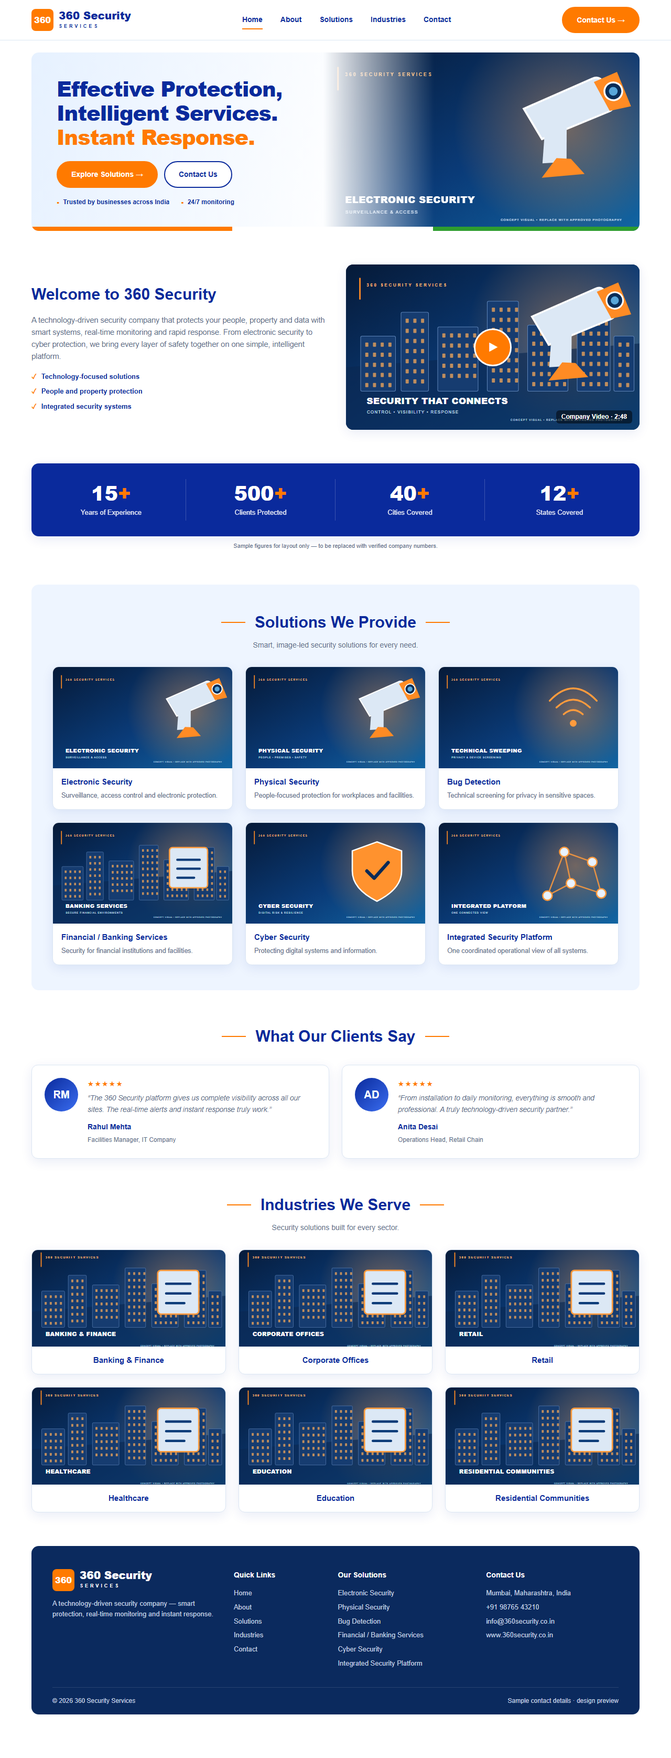
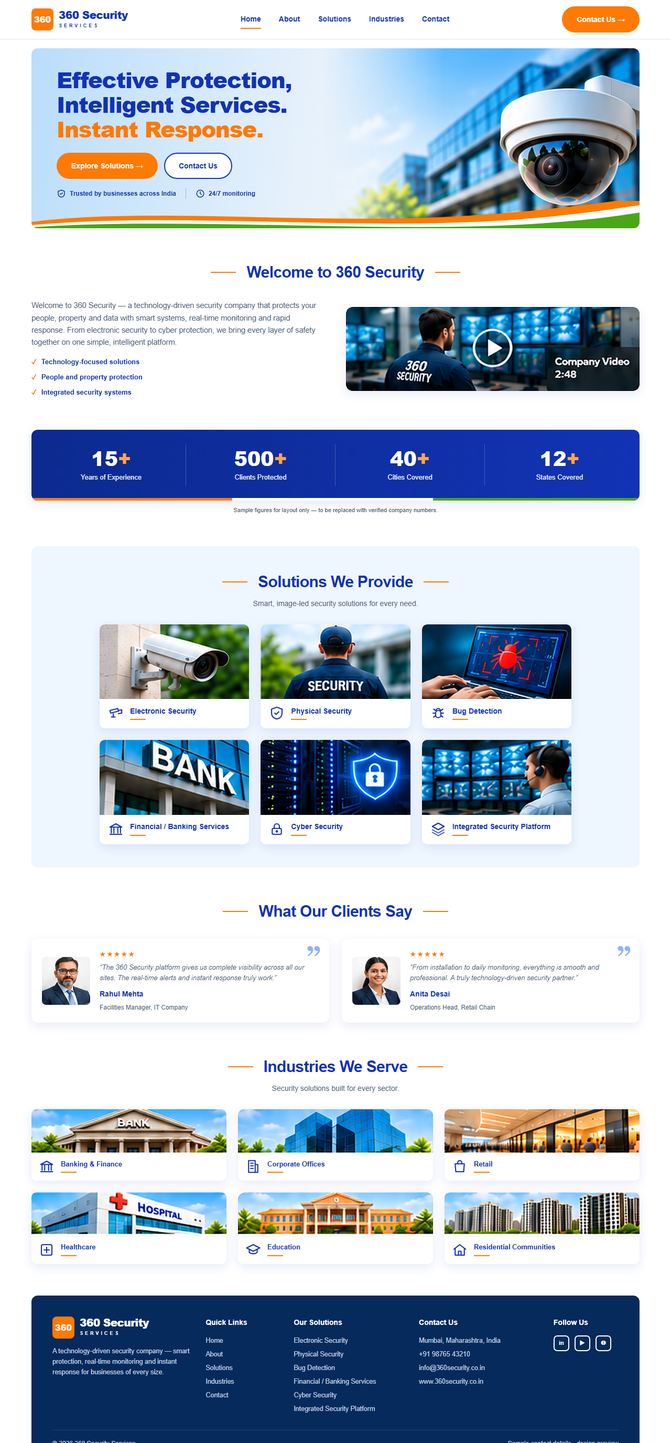
Match screenshot theme: real photos, tricolour hero, themed cards and footer

diff --git a/design.css b/design.css
@@ -1,8 +1,8 @@
 @import url('https://fonts.googleapis.com/css2?family=Poppins:wght@400;500;600;700;800&display=swap');
-:root{--blue:#0a2a9c;--navy:#0b2a5e;--orange:#ff7a00;--green:#2e9d2f;--light:#eef5ff;--ink:#1c2d4a;--muted:#5d6f8a;--line:#dbe6f3;--w:1160px;--gap:64px;--r:14px;--shadow:0 6px 22px rgba(10,42,156,.09)}
+:root{--blue:#1233b5;--navy:#062a5c;--orange:#ff7a00;--green:#4aa616;--light:#eef6ff;--ink:#1c2d4a;--muted:#4b5d7a;--line:#dbe6f3;--w:1160px;--gap:60px;--r:12px;--shadow:0 6px 20px rgba(18,51,181,.10)}
 *{box-sizing:border-box}
 body{margin:0;font-family:Poppins,Arial,sans-serif;color:var(--ink);background:#fff;line-height:1.6}
-a{color:inherit;text-decoration:none}img{display:block;width:100%}
+a{color:inherit;text-decoration:none}img{display:block;width:100%}svg{display:block}
 h1,h2,h3,p{margin:0}
 .wrap{width:min(var(--w),calc(100% - 48px));margin-inline:auto}
 .btn{display:inline-flex;align-items:center;gap:10px;padding:12px 26px;border-radius:30px;font-weight:600;font-size:14px;border:2px solid var(--orange);background:var(--orange);color:#fff}
@@ -10,78 +10,87 @@ h1,h2,h3,p{margin:0}
 .btn.light{background:transparent;border-color:#fff;color:#fff}
 
 header{position:sticky;top:0;z-index:20;background:#fff;box-shadow:0 1px 0 var(--line)}
-.hrow{display:flex;align-items:center;justify-content:space-between;height:76px}
+.hrow{display:flex;align-items:center;justify-content:space-between;height:74px}
 .brand{display:flex;align-items:center;gap:10px}
 .mark{width:42px;height:42px;border-radius:8px;background:var(--orange);color:#fff;font-weight:800;display:grid;place-items:center}
-.bn{font-weight:800;color:var(--blue);font-size:20px;line-height:1;display:block}.bs{display:block;font-size:9px;letter-spacing:4px;color:var(--blue);font-weight:700;margin-top:4px}
+.bn{font-weight:800;color:var(--blue);font-size:20px;line-height:1;display:block;letter-spacing:-.5px}.bs{display:block;font-size:9px;letter-spacing:4px;color:var(--blue);font-weight:700;margin-top:4px}
 nav{display:flex;gap:34px}nav a{font-weight:600;font-size:14px;color:var(--blue);padding:6px 0}nav a.on{border-bottom:2px solid var(--orange)}
 
-.hero{margin-top:24px;border-radius:var(--r);overflow:hidden;position:relative;background:linear-gradient(100deg,#e6f1ff 0%,#fff 55%);min-height:340px;display:grid;grid-template-columns:1.05fr 1fr;align-items:center}
-.hero-copy{padding:40px 0 40px 48px;position:relative;z-index:2}
-.hero h1{font-size:clamp(28px,3.4vw,40px);line-height:1.15;font-weight:800;color:var(--blue);letter-spacing:-1px}
+/* hero */
+.hero{margin-top:18px;border-radius:var(--r);overflow:hidden;position:relative;background:linear-gradient(100deg,#b9ddfb 0%,#e6f1fb 45%,#fff 100%);min-height:330px;display:flex;align-items:center}
+.hero-copy{padding:36px 0 56px 48px;position:relative;z-index:3;max-width:56%}
+.hero h1{font-size:clamp(28px,3.6vw,42px);line-height:1.12;font-weight:800;color:var(--blue);letter-spacing:-1.2px}
 .hero h1 em{font-style:normal;color:var(--orange)}
-.acts{display:flex;gap:12px;margin:24px 0 18px;flex-wrap:wrap}
-.trust{display:flex;gap:22px;font-size:12px;font-weight:600;color:var(--blue);flex-wrap:wrap}.trust span:before{content:'●';color:var(--orange);margin-right:7px;font-size:9px}
-.hero-img{position:absolute;right:0;top:0;bottom:0;width:52%}
-.hero-img img{height:100%;object-fit:cover;-webkit-mask-image:linear-gradient(90deg,transparent,#000 35%);mask-image:linear-gradient(90deg,transparent,#000 35%)}
-.swoosh{position:absolute;left:0;right:0;bottom:0;height:8px;background:linear-gradient(90deg,var(--orange) 0 33%,#fff 33% 66%,var(--green) 66%);z-index:3}
+.acts{display:flex;gap:12px;margin:22px 0 18px;flex-wrap:wrap}
+.trust{display:flex;gap:18px;font-size:12px;font-weight:600;color:var(--blue);flex-wrap:wrap;align-items:center}
+.trust span{display:inline-flex;align-items:center;gap:7px}.trust svg{width:18px;height:18px}
+.trust i{width:1px;height:20px;background:#9fb4d8}
+.hero-img{position:absolute;right:0;top:0;bottom:0;width:52%;z-index:1}
+.hero-img img{height:100%;object-fit:cover;-webkit-mask-image:linear-gradient(90deg,transparent,#000 38%);mask-image:linear-gradient(90deg,transparent,#000 38%)}
+.swoosh{position:absolute;left:0;right:0;bottom:-2px;height:54px;z-index:4;pointer-events:none}
+.swoosh svg{width:100%;height:100%}
 
-.hero.video{display:block;min-height:480px;background:#06183a;color:#fff}
-.hero.video .bg{position:absolute;inset:0}.hero.video .bg img{height:100%;object-fit:cover}
-.hero.video:before{content:'';position:absolute;inset:0;z-index:1;background:linear-gradient(90deg,rgba(4,18,48,.92),rgba(4,18,48,.55) 60%,rgba(4,18,48,.25))}
-.hero.video .hero-copy{max-width:640px;padding:80px 0 80px 56px}
-.hero.video h1{color:#fff}.hero.video .trust{color:#fff}
-.vctl{position:absolute;right:36px;bottom:34px;z-index:3;display:flex;align-items:center;gap:14px;background:rgba(255,255,255,.14);backdrop-filter:blur(8px);border:1px solid rgba(255,255,255,.4);border-radius:40px;padding:8px 22px 8px 8px;color:#fff;font-size:13px;font-weight:600}
+.hero.video{min-height:460px;background:#06183a}
+.hero.video .hero-img{inset:0;width:100%}
+.hero.video .hero-img img{-webkit-mask-image:none;mask-image:none}
+.hero.video:before{content:'';position:absolute;inset:0;z-index:2;background:linear-gradient(90deg,rgba(6,24,70,.92),rgba(6,24,70,.6) 55%,rgba(6,24,70,.15))}
+.hero.video .hero-copy{padding:70px 0 90px 56px;max-width:640px}
+.hero.video h1,.hero.video .hero-copy p{color:#fff}.hero.video .trust{color:#fff}.hero.video .trust i{background:#ffffff80}
+.vctl{position:absolute;right:36px;bottom:60px;z-index:5;display:flex;align-items:center;gap:14px;background:rgba(255,255,255,.16);backdrop-filter:blur(8px);border:1px solid rgba(255,255,255,.45);border-radius:40px;padding:8px 22px 8px 8px;color:#fff;font-size:13px;font-weight:600}
 .play{width:46px;height:46px;border-radius:50%;background:var(--orange);color:#fff;display:grid;place-items:center;font-size:14px;padding-left:3px;flex:none}
-.vctl small{display:block;font-weight:400;opacity:.85;font-size:11px}
+.vctl small{display:block;font-weight:400;opacity:.9;font-size:11px}
 
 section{margin-top:var(--gap)}
-.sh{text-align:center;margin-bottom:30px}
-.sh h2{font-size:30px;font-weight:700;color:var(--blue);display:inline-flex;align-items:center;gap:18px}
-.sh h2:before,.sh h2:after{content:'';width:46px;height:2px;background:var(--orange)}
-.sh p{color:var(--muted);font-size:14px;margin-top:8px}
+.sh{text-align:center;margin-bottom:28px}
+.sh h2{font-size:30px;font-weight:700;color:var(--blue);display:inline-flex;align-items:center;gap:20px;letter-spacing:-.6px}
+.sh h2:before,.sh h2:after{content:'';width:48px;height:2px;background:var(--orange)}
+.sh p{color:var(--muted);font-size:14px;margin-top:6px}
 
 .about{display:grid;grid-template-columns:1fr 1fr;gap:40px;align-items:center}
-.about h2{font-size:30px;color:var(--blue);font-weight:700;margin-bottom:14px}
 .about p{color:var(--muted);font-size:14.5px;margin-bottom:12px}
 .ticks{list-style:none;padding:0;margin:16px 0 0;display:grid;gap:8px;font-weight:600;font-size:13px;color:var(--blue)}.ticks li:before{content:'✓';color:var(--orange);margin-right:9px}
-.vid{position:relative;border-radius:var(--r);overflow:hidden;aspect-ratio:16/9;box-shadow:var(--shadow);background:#06183a}
-.vid img{height:100%;object-fit:cover}.vid .play{position:absolute;left:50%;top:50%;transform:translate(-50%,-50%);width:72px;height:72px;font-size:22px;border:3px solid #fff}
-.vid .cap{position:absolute;right:14px;bottom:12px;color:#fff;font-size:12px;font-weight:600;background:rgba(0,0,0,.5);padding:3px 10px;border-radius:6px}
-.about.center{grid-template-columns:1fr;text-align:center;max-width:820px;margin-inline:auto}
+.vid{border-radius:var(--r);overflow:hidden;box-shadow:var(--shadow);aspect-ratio:333/95}
+.vid img{height:100%;object-fit:cover}
+.about.one{grid-template-columns:1fr;text-align:center;max-width:820px;margin-inline:auto}
 
-.stats{display:grid;grid-template-columns:repeat(4,1fr);background:var(--blue);color:#fff;border-radius:var(--r);padding:30px 10px;box-shadow:var(--shadow)}
-.stat{text-align:center;border-right:1px solid rgba(255,255,255,.2);padding:4px 12px}.stat:last-child{border:0}
-.stat b{display:block;font-size:38px;font-weight:800;line-height:1.2}.stat b i{font-style:normal;color:var(--orange)}
-.stat span{font-size:13px;opacity:.9}
+.stats{display:grid;grid-template-columns:repeat(4,1fr);background:linear-gradient(100deg,#0c2a8f,var(--blue));color:#fff;border-radius:var(--r);padding:28px 10px;box-shadow:var(--shadow);position:relative;overflow:hidden}
+.stats:after{content:'';position:absolute;left:0;right:0;bottom:0;height:5px;background:linear-gradient(90deg,var(--orange) 0 33%,#fff 33% 66%,var(--green) 66%)}
+.stat{text-align:center;border-right:1px solid rgba(255,255,255,.22);padding:4px 12px}.stat:last-of-type{border:0}
+.stat b{display:block;font-size:38px;font-weight:800;line-height:1.2}.stat b i{font-style:normal;color:#ffa545}
+.stat span{font-size:13px;opacity:.92}
 .note{text-align:center;font-size:11px;color:var(--muted);margin-top:10px}
 
-.band{background:var(--light);border-radius:var(--r);padding:48px 40px}
-.grid3{display:grid;grid-template-columns:repeat(3,1fr);gap:24px}
-.card{background:#fff;border-radius:12px;overflow:hidden;box-shadow:var(--shadow);border:1px solid var(--line)}
-.card img{aspect-ratio:16/9;object-fit:cover}
-.card h3{font-size:15px;color:var(--blue);padding:14px 16px 4px;font-weight:700}
-.card p{font-size:12.5px;color:var(--muted);padding:0 16px 16px}
-.card.ind h3{text-align:center;padding:14px 10px}
-.card.ind img{aspect-ratio:16/8}
+.band{background:var(--light);border-radius:var(--r);padding:44px 40px}
+.grid3{display:grid;grid-template-columns:repeat(3,1fr);gap:22px}
+.band .grid3{max-width:900px;margin-inline:auto}
+.card{background:#fff;border-radius:10px;overflow:hidden;box-shadow:var(--shadow)}
+.card .ph{aspect-ratio:2/1;overflow:hidden}.card .ph img{height:100%;object-fit:cover}
+.card .t{display:flex;align-items:center;gap:12px;padding:12px 16px 14px}
+.card .t svg{width:30px;height:30px;flex:none;stroke:var(--blue);fill:none;stroke-width:1.7;stroke-linecap:round;stroke-linejoin:round}
+.card .t b{font-size:14px;line-height:1.25;color:var(--blue);font-weight:700;display:block}
+.card .t b:after{content:'';display:block;width:30px;height:2px;background:var(--orange);margin-top:6px}
+.card.ind .ph{aspect-ratio:4.4/1}.card.ind .t{padding:10px 14px 12px}.card.ind .t b{font-size:13px}
 
 .t2{display:grid;grid-template-columns:1fr 1fr;gap:24px}
-.tcard{background:#fff;border:1px solid var(--line);border-radius:12px;padding:24px;box-shadow:var(--shadow);display:flex;gap:18px}
-.av{flex:none;width:64px;height:64px;border-radius:50%;background:linear-gradient(135deg,var(--blue),#3a6df0);color:#fff;display:grid;place-items:center;font-weight:700;font-size:20px}
+.tcard{background:#fff;border-radius:12px;padding:18px 20px;box-shadow:var(--shadow);display:flex;gap:18px;align-items:center;position:relative}
+.tcard .av{flex:none;width:92px;height:92px;border-radius:8px;overflow:hidden}.av img{height:100%;object-fit:cover}
 .stars{color:var(--orange);letter-spacing:2px;font-size:14px}
-.tcard blockquote{margin:6px 0 10px;font-size:13.5px;font-style:italic;color:var(--muted)}
+.tcard blockquote{margin:4px 0 8px;font-size:13px;font-style:italic;color:var(--muted)}
 .tcard b{color:var(--blue);font-size:14px;display:block}.tcard small{color:var(--muted);font-size:12px}
+.tcard .q{position:absolute;right:16px;top:8px;font:800 54px/1 Georgia,serif;color:#8db4f2}
 
-footer{width:min(var(--w),calc(100% - 48px));margin:var(--gap) auto 32px;background:var(--navy);color:#c4d2e6;border-radius:var(--r)}footer .wrap{width:auto;padding:0 40px}
-.fgrid{display:grid;grid-template-columns:1.5fr .8fr 1.2fr 1.2fr;gap:30px;padding:44px 0 34px}
-.fgrid h4{color:#fff;font-size:14px;margin:0 0 14px}.fgrid ul{list-style:none;margin:0;padding:0;display:grid;gap:6px;font-size:13px}
-.fgrid p{font-size:13px;margin-top:14px}.brand.f .bn,.brand.f .bs{color:#fff}
+footer{width:min(var(--w),calc(100% - 48px));margin:var(--gap) auto 32px;background:var(--navy);color:#c4d2e6;border-radius:var(--r)}
+footer .wrap{width:auto;padding:0 40px}
+.fgrid{display:grid;grid-template-columns:1.5fr .8fr 1.2fr 1.3fr .7fr;gap:26px;padding:40px 0 30px}
+.fgrid h4{color:#fff;font-size:14px;margin:0 0 14px}.fgrid ul{list-style:none;margin:0;padding:0;display:grid;gap:6px;font-size:12.5px}
+.fgrid p{font-size:12.5px;margin-top:14px}.brand.f .bn,.brand.f .bs{color:#fff}
+.soc{display:flex;gap:10px}.soc span{width:30px;height:30px;border:2px solid #fff;border-radius:7px;color:#fff;font-size:11px;font-weight:700;display:grid;place-items:center}
 .fbot{border-top:1px solid rgba(255,255,255,.12);padding:16px 0;font-size:12px;display:flex;justify-content:space-between;flex-wrap:wrap;gap:8px}
 
 @media(max-width:820px){
- nav{display:none}.hero,.about,.t2,.fgrid{grid-template-columns:1fr}
- .hero-img{position:relative;width:100%;height:220px}.hero-copy{padding:32px 24px 8px}.hero.video .hero-copy{padding:56px 24px 120px}
- .grid3{grid-template-columns:1fr 1fr}.stats{grid-template-columns:1fr 1fr;row-gap:18px}.stat:nth-child(2){border:0}
- .band{padding:32px 18px}.vctl{right:16px;bottom:16px}
+ nav{display:none}.about,.t2,.fgrid{grid-template-columns:1fr}
+ .hero{display:block}.hero-copy{max-width:none;padding:28px 24px 8px}.hero-img{position:relative;width:100%;height:210px}.hero.video .hero-img{position:absolute;height:auto}.hero.video .hero-copy{padding:56px 24px 130px}
+ .grid3{grid-template-columns:1fr 1fr}.stats{grid-template-columns:1fr 1fr;row-gap:18px}.stat:nth-of-type(2){border:0}
+ .band{padding:30px 16px}.vctl{right:16px;bottom:62px}
 }
-@media(max-width:520px){.grid3{grid-template-columns:1fr}.sh h2{font-size:24px}}
+@media(max-width:520px){.grid3{grid-template-columns:1fr}.sh h2{font-size:24px}.sh h2:before,.sh h2:after{width:24px}}

diff --git a/option-b.html b/option-b.html
@@ -2,29 +2,20 @@
 <header><div class="wrap hrow"><a class="brand" href="#"><span class="mark">360</span><span><span class="bn">360 Security</span><span class="bs">SERVICES</span></span></a>
 <nav><a class="on" href="#">Home</a><a href="#about">About</a><a href="#solutions">Solutions</a><a href="#industries">Industries</a><a href="#contact">Contact</a></nav><a class="btn" href="#contact">Contact Us →</a></div></header>
 <main class="wrap">
-<div class="hero video"><div class="bg"><img src="assets/images/company-video.svg" alt=""></div>
-<div class="hero-copy"><h1>Effective Protection,<br>Intelligent Services.<br><em>Instant Response.</em></h1><p style="margin:16px 0 0;max-width:480px;font-size:14.5px;opacity:.9">A technology-driven security company protecting your people, property and data with real-time monitoring and rapid response.</p>
-<div class="acts"><a class="btn" href="#solutions">Explore Solutions →</a><a class="btn light" href="#contact">Contact Us</a></div>
-<div class="trust"><span>Trusted by businesses across India</span><span>24/7 monitoring</span></div></div>
-<a class="vctl" href="#"><span class="play">▶</span><span>Watch Company Video<small>2:48 · plays in background</small></span></a><div class="swoosh"></div></div>
-<section id="about" class="about center"><div><h2>Welcome to 360 Security</h2><p>A technology-driven security company that protects your people, property and data with smart systems, real-time monitoring and rapid response — from electronic security to cyber protection, on one intelligent platform.</p></div></section>
+<div class="hero video"><div class="hero-img"><img src="assets/photos/hero.jpg" alt=""></div><div class="hero-copy"><h1>Effective Protection,<br>Intelligent Services.<br><em>Instant Response.</em></h1><p style="margin:16px 0 0;max-width:480px;font-size:14.5px;opacity:.92">A technology-driven security company protecting your people, property and data with real-time monitoring and rapid response.</p>
+<div class="acts"><a class="btn" href="#solutions">Explore Solutions →</a><a class="btn light" href="#contact">Contact Us</a></div><div class="trust"><span><svg fill="none" stroke="currentColor" stroke-width="2" stroke-linecap="round" stroke-linejoin="round" viewBox="0 0 24 24"><path d="M12 3l8 3v6c0 5-3.5 8-8 9-4.5-1-8-4-8-9V6z"/><path d="M9 12l2 2 4-4"/></svg> Trusted by businesses across India</span><i></i><span><svg fill="none" stroke="currentColor" stroke-width="2" stroke-linecap="round" viewBox="0 0 24 24"><circle cx="12" cy="12" r="9"/><path d="M12 7v5l3 2"/></svg> 24/7 monitoring</span></div></div>
+<a class="vctl" href="#"><span class="play">▶</span><span>Watch Company Video<small>2:48 · plays in background</small></span></a><div class="swoosh"><svg viewBox="0 0 1160 54" preserveAspectRatio="none"><path d="M0 40C220 12 520 44 800 30C960 22 1080 4 1160 -6V54H0z" fill="#ff7a00"/><path d="M0 46C260 22 560 52 840 40C990 34 1090 18 1160 8V54H0z" fill="#fff"/><path d="M0 50C280 32 580 56 860 48C1000 44 1100 32 1160 22V54H0z" fill="#4aa616"/></svg></div></div>
+<section id="about"><div class="sh"><h2>Welcome to 360 Security</h2></div><div class="about one"><p>A technology-driven security company that protects your people, property and data with smart systems, real-time monitoring and rapid response — from electronic security to cyber protection, on one simple, intelligent platform.</p></div></section>
 <section><div class="stats"><div class="stat"><b>15<i>+</i></b><span>Years of Experience</span></div><div class="stat"><b>500<i>+</i></b><span>Clients Protected</span></div><div class="stat"><b>40<i>+</i></b><span>Cities Covered</span></div><div class="stat"><b>12<i>+</i></b><span>States Covered</span></div></div><p class="note">Sample figures for layout only — to be replaced with verified company numbers.</p></section>
-<section id="solutions"><div class="band"><div class="sh"><h2>Solutions We Provide</h2><p>Smart, image-led security solutions for every need.</p></div><div class="grid3">
-<div class="card"><img src="assets/images/electronic-security.svg" alt=""><h3>Electronic Security</h3><p>Surveillance, access control and electronic protection.</p></div>
-<div class="card"><img src="assets/images/physical-security.svg" alt=""><h3>Physical Security</h3><p>People-focused protection for workplaces and facilities.</p></div>
-<div class="card"><img src="assets/images/bug-detection.svg" alt=""><h3>Bug Detection</h3><p>Technical screening for privacy in sensitive spaces.</p></div>
-<div class="card"><img src="assets/images/banking-service.svg" alt=""><h3>Financial / Banking Services</h3><p>Security for financial institutions and facilities.</p></div>
-<div class="card"><img src="assets/images/cyber-security.svg" alt=""><h3>Cyber Security</h3><p>Protecting digital systems and information.</p></div>
-<div class="card"><img src="assets/images/integrated-platform.svg" alt=""><h3>Integrated Security Platform</h3><p>One coordinated operational view of all systems.</p></div></div></div></section>
+<section id="solutions"><div class="band"><div class="sh"><h2>Solutions We Provide</h2><p>Smart, image-led security solutions for every need.</p></div><div class="grid3"><div class="card "><div class="ph"><img src="assets/photos/sol-electronic.jpg" alt=""></div><div class="t"><svg viewBox="0 0 24 24"><path d="M3 8l12-3 1 4-12 3z"/><path d="M16 8l5-1v5l-5 1"/><path d="M8 13v4M5 18h6"/></svg><b>Electronic Security</b></div></div><div class="card "><div class="ph"><img src="assets/photos/sol-physical.jpg" alt=""></div><div class="t"><svg viewBox="0 0 24 24"><path d="M12 3l8 3v6c0 5-3.5 8-8 9-4.5-1-8-4-8-9V6z"/><path d="M9 12l2 2 4-4"/></svg><b>Physical Security</b></div></div><div class="card "><div class="ph"><img src="assets/photos/sol-bug.jpg" alt=""></div><div class="t"><svg viewBox="0 0 24 24"><rect x="8" y="8" width="8" height="11" rx="4"/><path d="M9 8a3 3 0 016 0M4 12h4M16 12h4M5 18l3-2M19 18l-3-2M5 6l3 2M19 6l-3 2"/></svg><b>Bug Detection</b></div></div><div class="card "><div class="ph"><img src="assets/photos/sol-bank.jpg" alt=""></div><div class="t"><svg viewBox="0 0 24 24"><path d="M3 9l9-5 9 5zM5 10v8M9 10v8M15 10v8M19 10v8M3 20h18"/></svg><b>Financial / Banking Services</b></div></div><div class="card "><div class="ph"><img src="assets/photos/sol-cyber.jpg" alt=""></div><div class="t"><svg viewBox="0 0 24 24"><rect x="5" y="11" width="14" height="9" rx="2"/><path d="M8 11V8a4 4 0 018 0v3"/><circle cx="12" cy="15.5" r="1"/></svg><b>Cyber Security</b></div></div><div class="card "><div class="ph"><img src="assets/photos/sol-integrated.jpg" alt=""></div><div class="t"><svg viewBox="0 0 24 24"><path d="M12 3l9 5-9 5-9-5z"/><path d="M3 13l9 5 9-5M3 17l9 5 9-5" opacity=".7"/></svg><b>Integrated Security Platform</b></div></div></div></div></section>
 <section><div class="sh"><h2>What Our Clients Say</h2></div><div class="t2">
-<div class="tcard"><div class="av">RM</div><div><div class="stars">★★★★★</div><blockquote>“The 360 Security platform gives us complete visibility across all our sites. The real-time alerts and instant response truly work.”</blockquote><b>Rahul Mehta</b><small>Facilities Manager, IT Company</small></div></div>
-<div class="tcard"><div class="av">AD</div><div><div class="stars">★★★★★</div><blockquote>“From installation to daily monitoring, everything is smooth and professional. A truly technology-driven security partner.”</blockquote><b>Anita Desai</b><small>Operations Head, Retail Chain</small></div></div></div></section>
-<section id="industries"><div class="sh"><h2>Industries We Serve</h2><p>Security solutions built for every sector.</p></div><div class="grid3">
-<div class="card ind"><img src="assets/images/industry-banking.svg" alt=""><h3>Banking &amp; Finance</h3></div><div class="card ind"><img src="assets/images/industry-offices.svg" alt=""><h3>Corporate Offices</h3></div><div class="card ind"><img src="assets/images/industry-retail.svg" alt=""><h3>Retail</h3></div>
-<div class="card ind"><img src="assets/images/industry-healthcare.svg" alt=""><h3>Healthcare</h3></div><div class="card ind"><img src="assets/images/industry-education.svg" alt=""><h3>Education</h3></div><div class="card ind"><img src="assets/images/industry-residential.svg" alt=""><h3>Residential Communities</h3></div></div></section>
+<div class="tcard"><div class="av"><img src="assets/photos/person-1.jpg" alt=""></div><div><div class="stars">★★★★★</div><blockquote>“The 360 Security platform gives us complete visibility across all our sites. The real-time alerts and instant response truly work.”</blockquote><b>Rahul Mehta</b><small>Facilities Manager, IT Company</small></div><span class="q">”</span></div>
+<div class="tcard"><div class="av"><img src="assets/photos/person-2.jpg" alt=""></div><div><div class="stars">★★★★★</div><blockquote>“From installation to daily monitoring, everything is smooth and professional. A truly technology-driven security partner.”</blockquote><b>Anita Desai</b><small>Operations Head, Retail Chain</small></div><span class="q">”</span></div></div></section>
+<section id="industries"><div class="sh"><h2>Industries We Serve</h2><p>Security solutions built for every sector.</p></div><div class="grid3"><div class="card ind"><div class="ph"><img src="assets/photos/ind-banking.jpg" alt=""></div><div class="t"><svg viewBox="0 0 24 24"><path d="M3 9l9-5 9 5zM5 10v8M9 10v8M15 10v8M19 10v8M3 20h18"/></svg><b>Banking &amp; Finance</b></div></div><div class="card ind"><div class="ph"><img src="assets/photos/ind-offices.jpg" alt=""></div><div class="t"><svg viewBox="0 0 24 24"><rect x="5" y="3" width="10" height="18"/><path d="M15 9h4v12h-4M8 7h4M8 11h4M8 15h4"/></svg><b>Corporate Offices</b></div></div><div class="card ind"><div class="ph"><img src="assets/photos/ind-retail.jpg" alt=""></div><div class="t"><svg viewBox="0 0 24 24"><path d="M5 8h14l-1 12H6z"/><path d="M9 8V6a3 3 0 016 0v2"/></svg><b>Retail</b></div></div><div class="card ind"><div class="ph"><img src="assets/photos/ind-health.jpg" alt=""></div><div class="t"><svg viewBox="0 0 24 24"><rect x="4" y="4" width="16" height="16" rx="2"/><path d="M12 8v8M8 12h8"/></svg><b>Healthcare</b></div></div><div class="card ind"><div class="ph"><img src="assets/photos/ind-education.jpg" alt=""></div><div class="t"><svg viewBox="0 0 24 24"><path d="M2 9l10-5 10 5-10 5z"/><path d="M6 11v5c3 2.5 9 2.5 12 0v-5"/></svg><b>Education</b></div></div><div class="card ind"><div class="ph"><img src="assets/photos/ind-residential.jpg" alt=""></div><div class="t"><svg viewBox="0 0 24 24"><path d="M3 11l9-7 9 7"/><path d="M5 10v10h14V10M10 20v-6h4v6"/></svg><b>Residential Communities</b></div></div></div></section>
 </main>
-<footer id="contact"><div class="wrap"><div class="fgrid"><div><a class="brand f" href="#"><span class="mark">360</span><span><span class="bn">360 Security</span><span class="bs">SERVICES</span></span></a><p>A technology-driven security company — smart protection, real-time monitoring and instant response.</p></div>
+<footer id="contact"><div class="wrap"><div class="fgrid"><div><a class="brand f" href="#"><span class="mark">360</span><span><span class="bn">360 Security</span><span class="bs">SERVICES</span></span></a><p>A technology-driven security company — smart protection, real-time monitoring and instant response for businesses of every size.</p></div>
 <div><h4>Quick Links</h4><ul><li>Home</li><li>About</li><li>Solutions</li><li>Industries</li><li>Contact</li></ul></div>
 <div><h4>Our Solutions</h4><ul><li>Electronic Security</li><li>Physical Security</li><li>Bug Detection</li><li>Financial / Banking Services</li><li>Cyber Security</li><li>Integrated Security Platform</li></ul></div>
-<div><h4>Contact Us</h4><ul><li>Mumbai, Maharashtra, India</li><li>+91 98765 43210</li><li>info@360security.co.in</li><li>www.360security.co.in</li></ul></div></div>
+<div><h4>Contact Us</h4><ul><li>Mumbai, Maharashtra, India</li><li>+91 98765 43210</li><li>info@360security.co.in</li><li>www.360security.co.in</li></ul></div>
+<div><h4>Follow Us</h4><div class="soc"><span>in</span><span>▶</span><span>◎</span></div></div></div>
 <div class="fbot"><span>© 2026 360 Security Services</span><span>Sample contact details · design preview</span></div></div></footer></body></html>

diff --git a/option-a.html b/option-a.html
@@ -2,30 +2,21 @@
 <header><div class="wrap hrow"><a class="brand" href="#"><span class="mark">360</span><span><span class="bn">360 Security</span><span class="bs">SERVICES</span></span></a>
 <nav><a class="on" href="#">Home</a><a href="#about">About</a><a href="#solutions">Solutions</a><a href="#industries">Industries</a><a href="#contact">Contact</a></nav><a class="btn" href="#contact">Contact Us →</a></div></header>
 <main class="wrap">
-<div class="hero"><div class="hero-copy"><h1>Effective Protection,<br>Intelligent Services.<br><em>Instant Response.</em></h1>
-<div class="acts"><a class="btn" href="#solutions">Explore Solutions →</a><a class="btn ghost" href="#contact">Contact Us</a></div>
-<div class="trust"><span>Trusted by businesses across India</span><span>24/7 monitoring</span></div></div>
-<div class="hero-img"><img src="assets/images/electronic-security.svg" alt=""></div><div class="swoosh"></div></div>
-<section id="about" class="about"><div><h2>Welcome to 360 Security</h2><p>A technology-driven security company that protects your people, property and data with smart systems, real-time monitoring and rapid response. From electronic security to cyber protection, we bring every layer of safety together on one simple, intelligent platform.</p>
+<div class="hero"><div class="hero-copy"><h1>Effective Protection,<br>Intelligent Services.<br><em>Instant Response.</em></h1><div class="acts"><a class="btn" href="#solutions">Explore Solutions →</a><a class="btn ghost" href="#contact">Contact Us</a></div><div class="trust"><span><svg fill="none" stroke="currentColor" stroke-width="2" stroke-linecap="round" stroke-linejoin="round" viewBox="0 0 24 24"><path d="M12 3l8 3v6c0 5-3.5 8-8 9-4.5-1-8-4-8-9V6z"/><path d="M9 12l2 2 4-4"/></svg> Trusted by businesses across India</span><i></i><span><svg fill="none" stroke="currentColor" stroke-width="2" stroke-linecap="round" viewBox="0 0 24 24"><circle cx="12" cy="12" r="9"/><path d="M12 7v5l3 2"/></svg> 24/7 monitoring</span></div></div>
+<div class="hero-img"><img src="assets/photos/hero.jpg" alt="Security camera on a corporate building"></div><div class="swoosh"><svg viewBox="0 0 1160 54" preserveAspectRatio="none"><path d="M0 40C220 12 520 44 800 30C960 22 1080 4 1160 -6V54H0z" fill="#ff7a00"/><path d="M0 46C260 22 560 52 840 40C990 34 1090 18 1160 8V54H0z" fill="#fff"/><path d="M0 50C280 32 580 56 860 48C1000 44 1100 32 1160 22V54H0z" fill="#4aa616"/></svg></div></div>
+<section id="about"><div class="sh"><h2>Welcome to 360 Security</h2></div><div class="about"><div><p>Welcome to 360 Security — a technology-driven security company that protects your people, property and data with smart systems, real-time monitoring and rapid response. From electronic security to cyber protection, we bring every layer of safety together on one simple, intelligent platform.</p>
 <ul class="ticks"><li>Technology-focused solutions</li><li>People and property protection</li><li>Integrated security systems</li></ul></div>
-<div class="vid"><img src="assets/images/company-video.svg" alt="Company video"><span class="play">▶</span><span class="cap">Company Video · 2:48</span></div></section>
+<div class="vid"><img src="assets/photos/video.jpg" alt="Company video"></div></div></section>
 <section><div class="stats"><div class="stat"><b>15<i>+</i></b><span>Years of Experience</span></div><div class="stat"><b>500<i>+</i></b><span>Clients Protected</span></div><div class="stat"><b>40<i>+</i></b><span>Cities Covered</span></div><div class="stat"><b>12<i>+</i></b><span>States Covered</span></div></div><p class="note">Sample figures for layout only — to be replaced with verified company numbers.</p></section>
-<section id="solutions"><div class="band"><div class="sh"><h2>Solutions We Provide</h2><p>Smart, image-led security solutions for every need.</p></div><div class="grid3">
-<div class="card"><img src="assets/images/electronic-security.svg" alt=""><h3>Electronic Security</h3><p>Surveillance, access control and electronic protection.</p></div>
-<div class="card"><img src="assets/images/physical-security.svg" alt=""><h3>Physical Security</h3><p>People-focused protection for workplaces and facilities.</p></div>
-<div class="card"><img src="assets/images/bug-detection.svg" alt=""><h3>Bug Detection</h3><p>Technical screening for privacy in sensitive spaces.</p></div>
-<div class="card"><img src="assets/images/banking-service.svg" alt=""><h3>Financial / Banking Services</h3><p>Security for financial institutions and facilities.</p></div>
-<div class="card"><img src="assets/images/cyber-security.svg" alt=""><h3>Cyber Security</h3><p>Protecting digital systems and information.</p></div>
-<div class="card"><img src="assets/images/integrated-platform.svg" alt=""><h3>Integrated Security Platform</h3><p>One coordinated operational view of all systems.</p></div></div></div></section>
+<section id="solutions"><div class="band"><div class="sh"><h2>Solutions We Provide</h2><p>Smart, image-led security solutions for every need.</p></div><div class="grid3"><div class="card "><div class="ph"><img src="assets/photos/sol-electronic.jpg" alt=""></div><div class="t"><svg viewBox="0 0 24 24"><path d="M3 8l12-3 1 4-12 3z"/><path d="M16 8l5-1v5l-5 1"/><path d="M8 13v4M5 18h6"/></svg><b>Electronic Security</b></div></div><div class="card "><div class="ph"><img src="assets/photos/sol-physical.jpg" alt=""></div><div class="t"><svg viewBox="0 0 24 24"><path d="M12 3l8 3v6c0 5-3.5 8-8 9-4.5-1-8-4-8-9V6z"/><path d="M9 12l2 2 4-4"/></svg><b>Physical Security</b></div></div><div class="card "><div class="ph"><img src="assets/photos/sol-bug.jpg" alt=""></div><div class="t"><svg viewBox="0 0 24 24"><rect x="8" y="8" width="8" height="11" rx="4"/><path d="M9 8a3 3 0 016 0M4 12h4M16 12h4M5 18l3-2M19 18l-3-2M5 6l3 2M19 6l-3 2"/></svg><b>Bug Detection</b></div></div><div class="card "><div class="ph"><img src="assets/photos/sol-bank.jpg" alt=""></div><div class="t"><svg viewBox="0 0 24 24"><path d="M3 9l9-5 9 5zM5 10v8M9 10v8M15 10v8M19 10v8M3 20h18"/></svg><b>Financial / Banking Services</b></div></div><div class="card "><div class="ph"><img src="assets/photos/sol-cyber.jpg" alt=""></div><div class="t"><svg viewBox="0 0 24 24"><rect x="5" y="11" width="14" height="9" rx="2"/><path d="M8 11V8a4 4 0 018 0v3"/><circle cx="12" cy="15.5" r="1"/></svg><b>Cyber Security</b></div></div><div class="card "><div class="ph"><img src="assets/photos/sol-integrated.jpg" alt=""></div><div class="t"><svg viewBox="0 0 24 24"><path d="M12 3l9 5-9 5-9-5z"/><path d="M3 13l9 5 9-5M3 17l9 5 9-5" opacity=".7"/></svg><b>Integrated Security Platform</b></div></div></div></div></section>
 <section><div class="sh"><h2>What Our Clients Say</h2></div><div class="t2">
-<div class="tcard"><div class="av">RM</div><div><div class="stars">★★★★★</div><blockquote>“The 360 Security platform gives us complete visibility across all our sites. The real-time alerts and instant response truly work.”</blockquote><b>Rahul Mehta</b><small>Facilities Manager, IT Company</small></div></div>
-<div class="tcard"><div class="av">AD</div><div><div class="stars">★★★★★</div><blockquote>“From installation to daily monitoring, everything is smooth and professional. A truly technology-driven security partner.”</blockquote><b>Anita Desai</b><small>Operations Head, Retail Chain</small></div></div></div></section>
-<section id="industries"><div class="sh"><h2>Industries We Serve</h2><p>Security solutions built for every sector.</p></div><div class="grid3">
-<div class="card ind"><img src="assets/images/industry-banking.svg" alt=""><h3>Banking &amp; Finance</h3></div><div class="card ind"><img src="assets/images/industry-offices.svg" alt=""><h3>Corporate Offices</h3></div><div class="card ind"><img src="assets/images/industry-retail.svg" alt=""><h3>Retail</h3></div>
-<div class="card ind"><img src="assets/images/industry-healthcare.svg" alt=""><h3>Healthcare</h3></div><div class="card ind"><img src="assets/images/industry-education.svg" alt=""><h3>Education</h3></div><div class="card ind"><img src="assets/images/industry-residential.svg" alt=""><h3>Residential Communities</h3></div></div></section>
+<div class="tcard"><div class="av"><img src="assets/photos/person-1.jpg" alt=""></div><div><div class="stars">★★★★★</div><blockquote>“The 360 Security platform gives us complete visibility across all our sites. The real-time alerts and instant response truly work.”</blockquote><b>Rahul Mehta</b><small>Facilities Manager, IT Company</small></div><span class="q">”</span></div>
+<div class="tcard"><div class="av"><img src="assets/photos/person-2.jpg" alt=""></div><div><div class="stars">★★★★★</div><blockquote>“From installation to daily monitoring, everything is smooth and professional. A truly technology-driven security partner.”</blockquote><b>Anita Desai</b><small>Operations Head, Retail Chain</small></div><span class="q">”</span></div></div></section>
+<section id="industries"><div class="sh"><h2>Industries We Serve</h2><p>Security solutions built for every sector.</p></div><div class="grid3"><div class="card ind"><div class="ph"><img src="assets/photos/ind-banking.jpg" alt=""></div><div class="t"><svg viewBox="0 0 24 24"><path d="M3 9l9-5 9 5zM5 10v8M9 10v8M15 10v8M19 10v8M3 20h18"/></svg><b>Banking &amp; Finance</b></div></div><div class="card ind"><div class="ph"><img src="assets/photos/ind-offices.jpg" alt=""></div><div class="t"><svg viewBox="0 0 24 24"><rect x="5" y="3" width="10" height="18"/><path d="M15 9h4v12h-4M8 7h4M8 11h4M8 15h4"/></svg><b>Corporate Offices</b></div></div><div class="card ind"><div class="ph"><img src="assets/photos/ind-retail.jpg" alt=""></div><div class="t"><svg viewBox="0 0 24 24"><path d="M5 8h14l-1 12H6z"/><path d="M9 8V6a3 3 0 016 0v2"/></svg><b>Retail</b></div></div><div class="card ind"><div class="ph"><img src="assets/photos/ind-health.jpg" alt=""></div><div class="t"><svg viewBox="0 0 24 24"><rect x="4" y="4" width="16" height="16" rx="2"/><path d="M12 8v8M8 12h8"/></svg><b>Healthcare</b></div></div><div class="card ind"><div class="ph"><img src="assets/photos/ind-education.jpg" alt=""></div><div class="t"><svg viewBox="0 0 24 24"><path d="M2 9l10-5 10 5-10 5z"/><path d="M6 11v5c3 2.5 9 2.5 12 0v-5"/></svg><b>Education</b></div></div><div class="card ind"><div class="ph"><img src="assets/photos/ind-residential.jpg" alt=""></div><div class="t"><svg viewBox="0 0 24 24"><path d="M3 11l9-7 9 7"/><path d="M5 10v10h14V10M10 20v-6h4v6"/></svg><b>Residential Communities</b></div></div></div></section>
 </main>
-<footer id="contact"><div class="wrap"><div class="fgrid"><div><a class="brand f" href="#"><span class="mark">360</span><span><span class="bn">360 Security</span><span class="bs">SERVICES</span></span></a><p>A technology-driven security company — smart protection, real-time monitoring and instant response.</p></div>
+<footer id="contact"><div class="wrap"><div class="fgrid"><div><a class="brand f" href="#"><span class="mark">360</span><span><span class="bn">360 Security</span><span class="bs">SERVICES</span></span></a><p>A technology-driven security company — smart protection, real-time monitoring and instant response for businesses of every size.</p></div>
 <div><h4>Quick Links</h4><ul><li>Home</li><li>About</li><li>Solutions</li><li>Industries</li><li>Contact</li></ul></div>
 <div><h4>Our Solutions</h4><ul><li>Electronic Security</li><li>Physical Security</li><li>Bug Detection</li><li>Financial / Banking Services</li><li>Cyber Security</li><li>Integrated Security Platform</li></ul></div>
-<div><h4>Contact Us</h4><ul><li>Mumbai, Maharashtra, India</li><li>+91 98765 43210</li><li>info@360security.co.in</li><li>www.360security.co.in</li></ul></div></div>
+<div><h4>Contact Us</h4><ul><li>Mumbai, Maharashtra, India</li><li>+91 98765 43210</li><li>info@360security.co.in</li><li>www.360security.co.in</li></ul></div>
+<div><h4>Follow Us</h4><div class="soc"><span>in</span><span>▶</span><span>◎</span></div></div></div>
 <div class="fbot"><span>© 2026 360 Security Services</span><span>Sample contact details · design preview</span></div></div></footer></body></html>
